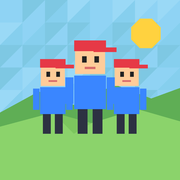
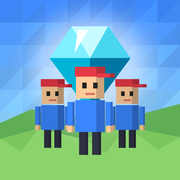
Als app op de iPhone: beginscherm, nieuw icoon, veilige randen en offline

diff --git a/sw.js b/sw.js
@@ -1,0 +1,45 @@
+// C.L.O.N.E.S - service worker (zodat het spel ook zonder internet opstart)
+// Altijd EERST internet proberen ("network-first"): zo krijg je updates meteen.
+// Alleen als er geen internet is, pakken we de bewaarde kopie uit de cache.
+// Nieuwe versie van dit bestand? Verhoog dan het nummer hieronder.
+const CACHE = 'clones-v1';
+
+// Andere websites die we ook mogen bewaren (Three.js, PeerJS en de lettertypes)
+const CDN = ['https://cdn.jsdelivr.net', 'https://fonts.googleapis.com', 'https://fonts.gstatic.com'];
+
+self.addEventListener('install', () => self.skipWaiting());
+
+self.addEventListener('activate', (event) => {
+  event.waitUntil((async () => {
+    const keys = await caches.keys();
+    await Promise.all(keys.filter((k) => k.startsWith('clones-') && k !== CACHE).map((k) => caches.delete(k)));
+    await self.clients.claim();
+  })());
+});
+
+self.addEventListener('fetch', (event) => {
+  const req = event.request;
+  if (req.method !== 'GET') return;
+  const url = new URL(req.url);
+  const eigen = url.origin === self.location.origin && url.pathname.startsWith(new URL(self.registration.scope).pathname);
+  if (!eigen && !CDN.includes(url.origin)) return; // samen spelen e.d.: niet aankomen
+  event.respondWith(netwerkEerst(req, eigen));
+});
+
+async function netwerkEerst(req, eigen) {
+  const cache = await caches.open(CACHE);
+  try {
+    // Eigen bestanden: altijd even bij de server checken of er een nieuwere versie is
+    const res = eigen ? await fetch(req.url, { cache: 'no-cache', credentials: 'same-origin' }) : await fetch(req);
+    if (res && (res.ok || res.type === 'opaque')) cache.put(req, res.clone()).catch(() => {});
+    return res;
+  } catch (err) {
+    const oud = await cache.match(req, { ignoreSearch: req.mode === 'navigate' });
+    if (oud) return oud;
+    if (req.mode === 'navigate') {
+      const start = await cache.match(new URL('./', self.registration.scope).href);
+      if (start) return start;
+    }
+    throw err;
+  }
+}

diff --git a/css/style.css b/css/style.css
@@ -364,3 +364,13 @@ body.title #fly-btns { visibility: hidden; }
   .coop-code { font-size: 36px; padding: 4px 10px; }
   .coop-choice { font-size: 18px; padding: 10px 16px; min-height: 48px; }
 }
+
+/* ---------- App op het beginscherm (iPhone/iPad) ---------- */
+html { -webkit-text-size-adjust: 100%; text-size-adjust: 100%; }
+button, img, canvas { -webkit-touch-callout: none; -webkit-user-select: none; user-select: none; -webkit-user-drag: none; }
+input, textarea { -webkit-user-select: text; user-select: text; touch-action: manipulation; }
+#start, #rotate-hint, #error {
+  padding: env(safe-area-inset-top) env(safe-area-inset-right) env(safe-area-inset-bottom) env(safe-area-inset-left);
+  box-sizing: border-box;
+}
+#error { padding: max(30px, env(safe-area-inset-top)) max(30px, env(safe-area-inset-right)) max(30px, env(safe-area-inset-bottom)) max(30px, env(safe-area-inset-left)); }

diff --git a/index.html b/index.html
@@ -101,7 +101,7 @@
   <!-- Hint als het scherm rechtop staat -->
   <div id="rotate-hint">
     <div class="rotate-icon">📱↻</div>
-    <div>Draai je iPad!</div>
+    <div>Draai je scherm!</div>
     <small>Dit spel speel je liggend.</small>
   </div>
 
@@ -109,5 +109,6 @@
   <div id="error" class="hidden"></div>
 
   <script type="module" src="js/main.js"></script>
+  <script src="js/pwa.js" defer></script>
 </body>
 </html>

diff --git a/js/pwa.js b/js/pwa.js
@@ -1,0 +1,7 @@
+// C.L.O.N.E.S - app op het beginscherm
+// Zet de service worker aan (alleen op https of localhost). Gaat het mis, dan speel je gewoon verder.
+if ('serviceWorker' in navigator && (location.protocol === 'https:' || location.hostname === 'localhost')) {
+  window.addEventListener('load', () => {
+    navigator.serviceWorker.register('sw.js', { scope: './' }).catch(() => {});
+  });
+}

diff --git a/icons/maak_iconen.py b/icons/maak_iconen.py
@@ -1,0 +1,112 @@
+# Maakt de app-iconen van C.L.O.N.E.S (low-poly: kristal + 3 clones).
+# Helemaal zelf getekend met code, dus geen plaatjes van anderen.
+# Draaien: python3 icons/maak_iconen.py   (nodig: pip install pillow)
+import random
+from pathlib import Path
+from PIL import Image, ImageDraw, ImageFilter
+
+S = 1024
+HERE = Path(__file__).parent
+
+def mix(a, b, t):
+    a = tuple(int(a[i:i+2], 16) for i in (1, 3, 5)); b = tuple(int(b[i:i+2], 16) for i in (1, 3, 5))
+    return tuple(round(a[i] + (b[i] - a[i]) * t) for i in range(3))
+
+def shade(c, f):
+    return tuple(max(0, min(255, round(v * f))) for v in c)
+
+def hexc(h):
+    return tuple(int(h[i:i+2], 16) for i in (1, 3, 5))
+
+def draw_back():
+    random.seed(7)
+    im = Image.new('RGB', (S, S))
+    d = ImageDraw.Draw(im)
+    # Lucht: low-poly driehoeken, boven donkerder blauw, onder lichter
+    n = 8; step = S / n
+    for gy in range(n + 1):
+        for gx in range(n + 1):
+            x0, y0 = gx * step, gy * step
+            for tri in ([(x0, y0), (x0 + step, y0), (x0, y0 + step)],
+                        [(x0 + step, y0), (x0 + step, y0 + step), (x0, y0 + step)]):
+                cy = sum(p[1] for p in tri) / 3 / S
+                base = mix('#3a86ff', '#8fd3f4', min(1, cy * 1.3))
+                d.polygon(tri, fill=shade(base, random.uniform(0.93, 1.07)))
+    # Heuvels (low-poly)
+    hill1 = [(0, 700), (180, 620), (360, 680), (560, 600), (760, 660), (1024, 590), (1024, 1024), (0, 1024)]
+    d.polygon(hill1, fill=hexc('#5fae55'))
+    pts = [(0, 790), (220, 730), (470, 790), (720, 720), (1024, 780), (1024, 1024), (0, 1024)]
+    d.polygon(pts, fill=hexc('#8bd36b'))
+    for a, b, c in [((0, 790), (220, 730), (120, 860)), ((470, 790), (720, 720), (600, 870)), ((720, 720), (1024, 780), (900, 850))]:
+        d.polygon([a, b, c], fill=hexc('#7cc65e'))
+
+    return im
+
+def draw_front():
+    # Kristal + clones op een doorzichtige laag, zodat we ze kunnen verkleinen
+    # Groot kristal in het midden (achter de clones)
+    cx, top, mid, bot, w = 512, 150, 330, 640, 230
+    gem = {
+        'tl': [(cx - w, mid), (cx - w * 0.45, top), (cx, mid)],
+        'tm': [(cx - w * 0.45, top), (cx + w * 0.45, top), (cx, mid)],
+        'tr': [(cx + w * 0.45, top), (cx + w, mid), (cx, mid)],
+        'bl': [(cx - w, mid), (cx, mid), (cx, bot)],
+        'br': [(cx, mid), (cx + w, mid), (cx, bot)],
+    }
+    glow = Image.new('L', (S, S), 0)
+    ImageDraw.Draw(glow).ellipse([cx - 330, 90, cx + 330, 700], fill=150)
+    glow = glow.filter(ImageFilter.GaussianBlur(70))
+    im = Image.new('RGBA', (S, S), (255, 255, 255, 0))  # witte gloed achter het kristal
+    im.putalpha(glow)
+    d = ImageDraw.Draw(im)
+    cols = {'tl': '#7ff0ff', 'tm': '#c8fbff', 'tr': '#48d6f0', 'bl': '#00b4d8', 'br': '#0077a3'}
+    for k, poly in gem.items():
+        d.polygon(poly, fill=hexc(cols[k]))
+    d.polygon([(cx - w * 0.3, top + 20), (cx - w * 0.05, top + 20), (cx - w * 0.38, mid - 30)], fill=(255, 255, 255))
+
+    # Drie clones (dezelfde jongen, 3 keer): achterste twee kleiner
+    def clone(px, py, sc, dark=1.0):
+        def box(x0, y0, x1, y1, col, side=None):
+            col = shade(hexc(col), dark)
+            X0, Y0, X1, Y1 = px + x0 * sc, py + y0 * sc, px + x1 * sc, py + y1 * sc
+            d.rectangle([X0, Y0, X1, Y1], fill=col)
+            # low-poly schaduwkant rechts
+            sw = (X1 - X0) * 0.28
+            d.polygon([(X1 - sw, Y0), (X1, Y0), (X1, Y1), (X1 - sw, Y1)], fill=shade(col, 0.8))
+        box(-62, -130, -12, 0, '#2d3142'); box(12, -130, 62, 0, '#2d3142')      # benen
+        box(-84, -310, 84, -130, '#3a86ff')                                     # lijf
+        box(-128, -300, -88, -160, '#3a86ff'); box(88, -300, 128, -160, '#3a86ff')  # armen
+        box(-128, -165, -92, -128, '#ffcc99'); box(92, -165, 128, -128, '#ffcc99')  # handen
+        box(-80, -470, 80, -320, '#ffcc99')                                     # hoofd
+        box(-86, -500, 86, -445, '#e63946'); box(40, -462, 140, -440, '#e63946')    # pet
+        e = shade(hexc('#222222'), dark)
+        d.rectangle([px - 44 * sc, py - 410 * sc, px - 20 * sc, py - 378 * sc], fill=e)
+        d.rectangle([px + 18 * sc, py - 410 * sc, px + 42 * sc, py - 378 * sc], fill=e)
+        d.rectangle([px - 26 * sc, py - 352 * sc, px + 26 * sc, py - 340 * sc], fill=shade(hexc('#d9776b'), dark))
+
+    clone(300, 840, 0.78, 0.88)
+    clone(724, 840, 0.78, 0.88)
+    clone(512, 880, 1.0)
+    return im
+
+def compose(scale):
+    back = draw_back().convert('RGBA')
+    front = draw_front()
+    if scale != 1:
+        sz = round(S * scale)
+        front = front.resize((sz, sz), Image.LANCZOS)
+        layer = Image.new('RGBA', (S, S), (0, 0, 0, 0))
+        layer.paste(front, ((S - sz) // 2, (S - sz) // 2 + round(S * 0.03)))
+        front = layer
+    back.alpha_composite(front)
+    return back.convert('RGB')
+
+def main():
+    big = compose(1)
+    for size, name in [(180, 'apple-touch-icon.png'), (192, 'icon-192.png'), (512, 'icon-512.png')]:
+        big.resize((size, size), Image.LANCZOS).save(HERE / name, optimize=True)
+    # Maskable: kristal en clones kleiner in het midden, zodat Android er een rondje van kan maken
+    compose(0.78).resize((512, 512), Image.LANCZOS).save(HERE / 'icon-maskable-512.png', optimize=True)
+
+if __name__ == '__main__':
+    main()

diff --git a/AGENTS.md b/AGENTS.md
@@ -20,7 +20,7 @@ Iedere AI die helpt, werkt volgens deze regels. Praat met Dex in simpel Nederlan
 - Gaat er iets stuk? Ga terug naar een **eerdere commit**.
 
 ## Het spel
-- Spelen op de **iPad, liggend**: aanraakbediening (joystick links, grote Praat-knop rechts, tikken op personages), een hint als het scherm rechtop staat, en een **manifest + icoon** zodat "Zet op beginscherm" het spel beeldvullend opent.
+- Spelen op de **iPad, liggend**: aanraakbediening (joystick links, grote Praat-knop rechts, tikken op personages), een hint als het scherm rechtop staat, en een **manifest + iconen + service worker** zodat "Zet op beginscherm" (Safari > Deel-knop) het spel als app beeldvullend opent. Nieuwe knoppen of panelen aan de rand? Gebruik `env(safe-area-inset-*)` (notch en home-balk op de iPhone).
 - Ook te spelen met het toetsenbord (WASD/pijltjes, E/spatie, C, M, B, H).
 - Soort spel: avontuur in een wereld (zoals Zelda of Pokémon).
 - Stijl: **low-poly 3D** met echte schaduwen, golvend water en dingen die bewegen.
@@ -29,6 +29,8 @@ Iedere AI die helpt, werkt volgens deze regels. Praat met Dex in simpel Nederlan
 ## Bestanden
 - `index.html` – de pagina, laadt Three.js via de CDN (en twee lettertypes van Google Fonts)
 - `css/style.css` – knoppen, praatwolk, opdracht, panelen, startscherm
+- `manifest.webmanifest`, `icons/` – de app voor op het beginscherm. Iconen opnieuw maken: `python3 icons/maak_iconen.py` (Pillow; zelf getekend, geen plaatjes van anderen)
+- `sw.js` + `js/pwa.js` – service worker: **altijd eerst internet** (eigen bestanden met `cache: 'no-cache'`), cache alleen als je offline bent. Bewaart ook Three.js/PeerJS/lettertypes (jsdelivr, Google Fonts); andere sites (de PeerJS-server) blijven met rust. Verander je wat in `sw.js` zelf? Verhoog dan `CACHE` (`clones-v1` → `clones-v2`)
 - `js/main.js` – start het spel, de zones, de spel-lus, praten, vechten, clonen
 - `js/world.js` – het dorp, de vijver, de poorten (Slijmbos, De Stad en De Grote Woestijn), de kraam en de clonemachine
 - `js/forest.js` – het Slijmbos, de grotdeur en de 3 drukknoppen

diff --git a/LOGBOEK.md b/LOGBOEK.md
@@ -143,3 +143,11 @@
 - Niet in het doolhof en niet in de Grote Piramide: dat blijft lopen (anders is het te makkelijk). De woestijn blijft moeilijk: de zonnestenen en Sjors doe je nog steeds te voet, en de zandstorm blaast je auto opzij.
 - Bomen, cactussen, duinen, zuilen en piramides hebben nu een hoogte, zodat je over kleine dingen heen vliegt maar niet over de rotswand of de piramides.
 - De save is niet veranderd (nog steeds versie 8).
+
+## 23 oktober 2026: Als app op de iPhone (wens van de oom van Dex)
+- Gemaakt met een AI-helper op de tak `app-op-iphone`. **Dex of papa beslist of het erin komt.**
+- Via Safari > **Deel-knop** > **Zet op beginscherm** wordt C.L.O.N.E.S een app: beeldvullend, liggend, met een nieuw low-poly icoontje (3 clones en een kristal, zelf getekend met code: `icons/maak_iconen.py`).
+- Knoppen en tekst blijven buiten de camera-hoek en het streepje onderin (ook rechtop: de draai-hint zegt nu "Draai je scherm!").
+- Nieuw: een service worker (`sw.js`). Die haalt altijd eerst de nieuwste versie van internet; alleen zonder internet pakt hij de bewaarde kopie. Zo werkt het spel ook offline.
+- De app op het beginscherm heeft een eigen save (los van Safari). De save is niet veranderd (nog steeds versie 8).
+- Getest op de computer in iPhone-formaat (liggend en rechtop), iPad-formaat en MacBook-formaat, ook zonder internet. Nog niet getest op een echte iPhone.

diff --git a/GAME.md b/GAME.md
@@ -159,6 +159,12 @@ Het spel van Dex (11 jaar).
 - Praatwolken worden letter voor letter getypt, en iedereen heeft een eigen stemmetje.
 - Het spel slaat je voortgang vanzelf op.
 
+### Als app op je iPhone of iPad 📱
+- Open [de speel-link](https://dex-nl.github.io/c-l-o-n-e-s/) in **Safari**, tik op de **Deel-knop** (vierkantje met pijltje omhoog) en kies **Zet op beginscherm**. Dan staat C.L.O.N.E.S als app tussen je andere apps, met een eigen icoontje (3 clones en een kristal).
+- Tik je op het icoontje, dan opent het spel over het hele scherm, zonder adresbalk. Knoppen blijven weg van de camera-hoek en het streepje onderin.
+- Updates komen er vanzelf in: de app kijkt elke keer of er een nieuwe versie is. Geen internet? Dan start het spel toch (samen spelen werkt dan niet).
+- **Let op:** de app op het beginscherm heeft een **eigen save**, los van Safari. Je begint daar dus opnieuw (je voortgang in Safari blijft gewoon bewaard).
+
 ## Besturing
 - **iPad:** sleep met je vinger op de linkerkant van het scherm om te lopen. De grote knop rechts is **Praat** (bij iemand), **Lees** (bij een bord) of **⚔** (zwaard). Bij de machine: druk op **Clone!**
 - **Samen spelen:** tik op **🤝** rechtsboven.
